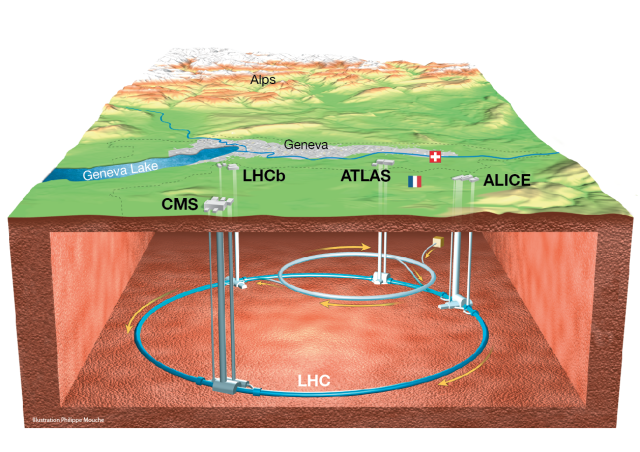
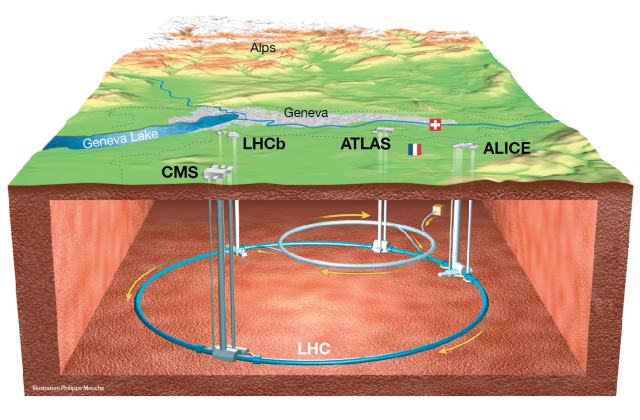
Checkpoint to github

diff --git a/s2i2-hep-si2-pi-workshop-2017.tex b/s2i2-hep-si2-pi-workshop-2017.tex
@@ -34,7 +34,6 @@
 
 \begin{textblock}{84.0}(1,2)
 \begin{center}
-%{\transparent{0.2}\includegraphics[width=0.95\textwidth]{images/s2i2-banner-50percent.png}}
 \includegraphics[width=0.95\textwidth]{images/s2i2-banner-50percent.png}
 \end{center}
 \end{textblock}
@@ -56,7 +55,6 @@ Conceptualization of an S2I2 Institute \\
 \begin{center}
 \begin{Large}
 \textbf{
-%PIs: Peter Elmer (Princeton U.), Mark Neubauer (U.Illinois Urbana-Champaign), \\ Mike Sokoloff (U.Cincinnati)
 PIs: Peter Elmer (Princeton Univ.), Mark Neubauer (Univ. of Illinois \\ 
 at Urbana-Champaign), Mike Sokoloff (Univ. of Cincinnati)
 }
@@ -82,33 +80,6 @@ by more than a factor of 100.
 \end{textblock}
 
 \begin{textblock}{38.0}(4,25)
-\begin{block}{High-Luminosity Large Hadron Collider (HL-LHC)}
-The primary goal of the S2I2-HEP conceptualization project is to
-prepare a strategic plan for a potential NSF Scientific Software
-Innovation Institute (S2I2) to develop software for experiments
-taking data in the ``High-Luminosity Large Hadron Collider'' (HL-LHC)
-era in the 2020s. In addition, we are working with the HEP Software
-Foundation to prepare a larger HEP Community White Paper (CWP)
-describing a global roadmap for HEP Software and Computing R\&D for
-the 2020s. To this end we are organizing a number of workshops
-between Fall 2016 and Summer 2017.
-The LHC experiments, for example, use nearly 0.5 Exabyte of
-storage today, and planned upgrades through the 2020s will increase this
-by more than a factor of 100. 
-~~~ \\
-~~~ \\
-\begin{figure}[tbph]
-\centering
-\includegraphics[width=0.96\textwidth]{images/CERN-LHC-cutaway-view-medium.png}
-%\begin{center}
-%\end{center}
-\end{figure}
-Reduce size of above image. Timeline picture through 2030s.
-\end{block}
-\end{textblock}
-
-
-\begin{textblock}{38.0}(44,25)
 \begin{block}{High Energy Physics (HEP)}
 %\begin{center}
 The quest to understand the fundamental building blocks of nature,
@@ -133,28 +104,53 @@ aim to answer these questions over the next 20 years.
 \begin{figure}[tbph]
 \centering
 %\includegraphics[width=0.48\textwidth]{images/0910152_02-A5-at-72-dpi.jpg}
-\includegraphics[width=0.41\textwidth]{images/run204769_evt71902630_VP1Base-half.png}
+\includegraphics[width=0.41\textwidth]{images/CERN-LHC-cutaway-view-medium.png}
+%\includegraphics[width=0.41\textwidth]{images/run204769_evt71902630_VP1Base-half.png}
 \includegraphics[width=0.42\textwidth]{images/eemm_run195099_evt137440354_ispy_3d-annotated-2.png}
 %\begin{center}
-%{\small \copyright~2009-2016 CERN (License: CC-BY-SA-4.0)}
 %\end{center}
 \end{figure}
+{\small \copyright~2009-2016 CERN (License: CC-BY-SA-4.0)}
 \end{block}
 \end{textblock}
 
-\begin{textblock}{38.0}(44,63)
+\begin{textblock}{38.0}(4,63)
 \begin{block}{The HEP Community and Software Ecosystem}
 HEP collaborations, US scientists/students involved in LHC, etc. (Additional text to fill in.)
 \end{block}
 \end{textblock}
 
+\begin{textblock}{38.0}(44,25)
+\begin{block}{High-Luminosity Large Hadron Collider (HL-LHC)}
+The LHC experiments, for example, use nearly 0.5 Exabyte of
+storage today, and planned upgrades through the 2020s will increase this
+by more than a factor of 100. 
+\end{block}
+\end{textblock}
+
+
+
+
 
 \begin{textblock}{38.0}(44,70)
-\begin{block}{The HEP Community and Software Ecosystem}
+\begin{block}{HSF Community White Paper Workshop at SDSC, 23-26 Jan 2017}
 \begin{figure}[tbph]
 \centering
-\includegraphics[width=0.80\textwidth]{images/20170125-HSF-SDSC-Workshop-group-photo.jpg}
+\includegraphics[width=0.60\textwidth]{images/20170125-HSF-SDSC-Workshop-group-photo.jpg}
 \end{figure}
+\small{Meeting agenda: \url{http://indico.cern.ch/event/570249/}} \\
+
+\end{block}
+\end{textblock}
+
+\begin{textblock}{38.0}(44,90)
+\begin{block}{S2I2 HEP/CS workshop at NCSA, 7-9 Dec 2016}
+\begin{figure}[tbph]
+\centering
+\includegraphics[width=0.60\textwidth]{images/20161208-s2i2-hep-cs-group-photo.jpg}
+\end{figure}
+\small{Meeting agenda: \url{https://indico.cern.ch/event/575443/}} \\
+\small{Summary: \url{http://s2i2-hep.org/downloads/s2i2-hep-cs-workshop-summary.pdf}}
 \end{block}
 \end{textblock}
 
@@ -165,17 +161,35 @@ HEP collaborations, US scientists/students involved in LHC, etc. (Additional tex
 
 
 
+\begin{textblock}{14.0}(4,109)
+\begin{block}{Online poster with links}
+\begin{figure}[tbph]
+\centering
+\includegraphics[width=0.30\textwidth]{images/qr-s2i2-hep-si2-pi-workshop-2017.png}
+\end{figure}
+\begin{center}
+\url{http://goo.gl/k22mD9}
+\end{center}
+\end{block}
+\end{textblock}
+
+
+\begin{textblock}{22.0}(20,109)
+\begin{block}{XYZ}
+Extra text as needed
+~~ \\
+~~ \\
+\end{block}
+\end{textblock}
 
 
 
-
-
-\begin{textblock}{38.0}(44,107)
+\begin{textblock}{38.0}(44,109)
 \begin{block}{Acknowledgement}
 This project is supported by National Science Foundation grants ACI-1558216, ACI-1558219, and ACI-1558233. Any opinions, findings, conclusions or recommendations expressed in this material are those of the developers and do not necessarily reflect the views of the National Science Foundation. \\
 %~~\\
 %\begin{center}
-Images \copyright~2009-2016 CERN (License: CC-BY-SA-4.0)
+%Images \copyright~2009-2016 CERN (License: CC-BY-SA-4.0)
 %\end{center}
 
 \end{block}
